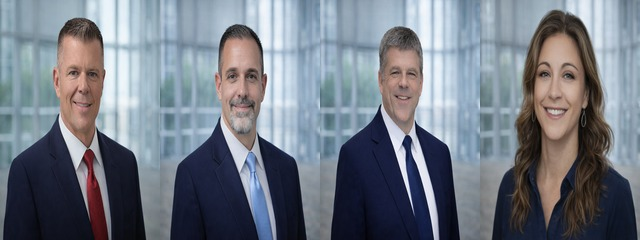
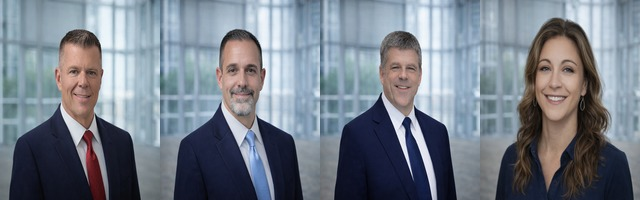
Fix news hero (remove broken contact div) + rebuild leadership nav image
- Remove blog-hero_contact from news listing page (was causing 1000px+ stretch bug)
  Contact info stays on the press release post page where it belongs
- Rebuild leadership-team-nav.jpg: Patrick, Ian, Preston, Angel — clean face crops

Changed region(s): [[0.0, 0.0, 1.0, 1.0], [0.9062, 0.84, 0.9375, 0.93]]

diff --git a/public/news.html b/public/news.html
@@ -205,7 +205,7 @@ margin: 0rem !important;
   padding-left: 0rem !important;
 }
 
-</style></div><main class="main-wrapper"><div class="navbar_wrap"><div class="navbar w-nav" data-animation="default" data-collapse="medium" data-duration="400" data-easing="ease" data-easing2="ease" role="banner"><div class="nav_component"><div class="brand_wrap"><a class="brand w-nav-brand" href="index.html"><img alt="" class="logo" height="36" loading="lazy" src="/images/empower.svg" width="36"/></a></div><div class="nav_menu"><nav class="nav_menu-wrap w-nav-menu" role="navigation"><div class="nav_menu-left"><div class="nav_dropdown w-dropdown" data-delay="0" data-hover="true" data-w-id="75ec1212-96ff-147e-dc89-72d084a5c397"><div class="dropdown_toggle w-dropdown-toggle"><div>About</div><div class="dropdown_icon w-icon-dropdown-toggle"></div></div><nav class="navigation w-dropdown-list"><div class="dropdown_component"><div class="nav-link_left"><div class="nav_title"><div class="text-size-large">About Empower</div><div class="max-width-medium is--nav"><div>Empower EIT delivers high-return, vertically integrated solutions across next-generation lithium production and advanced energy technologies—spanning pre-treatment, patented extraction and conversion with battery-grade output</div></div></div><div class="nav_card_warp"><a class="nav_card-link w-inline-block" href="about.html"><div class="nav_card-img"><img alt="" class="image is--explore" loading="lazy" sizes="100vw" src="/images/cms/empower-building.jpg"/></div><div class="nav_card-text"><div class="text-style-allcaps text-weight-medium text-size-tiny">About</div></div></a><a class="nav_card-link w-inline-block" href="leadership.html"><div class="nav_card-img"><img alt="" class="image is--explore" loading="lazy" sizes="100vw" src="/images/leadership-team-nav.jpg"/></div><div class="nav_card-text"><div class="text-style-allcaps text-weight-medium text-size-tiny">Leadership</div></div></a></div></div><div class="nav-link_right"><div class="nav-card_content"><div class="max-width-small"><div class="text-size-large">Vertically integrated lithium development</div></div><p>Empower is among the first companies to offer a true end-to-end lithium solution, integrating both concentration and refining processes within a single system.</p><div class="margin-top margin-small"><a class="button-primary-2 w-inline-block" href="projects.html"><div class="button-text"><div class="text-size-regular text-weight-medium">Projects</div><div class="button-text_hover"><div class="text-size-regular text-weight-medium">Get started</div></div></div><div class="button-primary_bg"></div></a></div></div><div class="dropdown_card-img"><img alt="" class="image" loading="lazy" sizes="100vw" src="/images/Screenshot-2026-01-21-at-2.22.54-PM.png" srcset="/images/Screenshot-2026-01-21-at-2.22.54-PM-p-500.png 500w, /images/Screenshot-2026-01-21-at-2.22.54-PM-p-800.png 800w, /images/Screenshot-2026-01-21-at-2.22.54-PM-p-1080.png 1080w, /images/Screenshot-2026-01-21-at-2.22.54-PM-p-1600.png 1600w, /images/Screenshot-2026-01-21-at-2.22.54-PM-p-2000.png 2000w, /images/Screenshot-2026-01-21-at-2.22.54-PM.png 2386w"/></div></div></div></nav></div><a class="nav_link w-inline-block" href="services.html"><div>Services</div></a><a class="nav_link w-inline-block" href="projects.html"><div>Projects</div></a><a class="nav_link w-inline-block" href="our-story.html"><div>Company Timeline</div></a><a class="nav_link w-inline-block" href="sustainability.html"><div>Sustainability</div></a><a class="nav_link w-inline-block" href="investment.html"><div>Investment</div></a><a aria-current="page" class="nav_link w-inline-block w--current" href="news.html"><div>News</div></a></div><div class="nav_menu-right"><a class="button-primary w-inline-block" href="/contact.html"><div class="button-text"><div class="text-size-regular text-weight-medium">Get in Touch</div><div class="button-text_hover"><div class="text-size-regular text-weight-medium">Get in Touch</div></div></div><div class="button-primary_bg"></div></a></div></nav><div class="nav-button w-nav-button"><div class="w-icon-nav-menu"></div></div></div></div><div class="nav_blur"></div></div></div><section class="section_blog-hero" id="hero"><div class="padding-global"><div class="w-layout-blockcontainer container-large w-container"><div class="blog-hero_list-wrap w-dyn-list"><div class="blog-hero_list w-dyn-items" role="list"><div class="blog-hero_item w-dyn-item" role="listitem"><a class="blog-hero_component w-inline-block" href="news/dme-acquires-conductive-energy-forms-empower-eit-dallas.html"><div class="blog-hero_left"><div class="blog-hero_title"><div class="heading-tagline is--white"><div class="text-style-allcaps text-size-tiny">Press Release</div></div><h1 class="text-weight-normal heading-style-h2">DME Energy Resources Acquires Conductive Energy to Form Empower EIT</h1><div class="blog-hero_subtitle"><p class="opacity-80">DME Energy Resources has acquired Conductive Energy to form Empower EIT, consolidating operations at a new 17,000 sq ft Dallas headquarters and creating a fully vertically integrated lithium company.</p></div></div><div class="blog-link"><div class="text-size-regular">Click to see full press release</div><img alt="Icon" class="blog-arrow" loading="lazy" src="/images/blog-arrow.svg"/></div><div class="blog-hero_contact" style="margin-top:1.5rem;opacity:0.85;font-size:0.875rem;"><div style="font-size:0.7rem;letter-spacing:0.08em;text-transform:uppercase;opacity:0.6;margin-bottom:0.25rem;">Media Contact</div><div>Jimena Ramirez &nbsp;·&nbsp; <a href="mailto:[email redacted]" style="color:inherit;">[email redacted]</a> &nbsp;·&nbsp; 972.955.5014</div></div></div><div class="blog-hero_right"><img alt="Empower EIT team at Dallas facility" class="image" loading="lazy" src="/images/cms/empower-building.jpg" alt="Empower EIT headquarters Dallas"/><div class="square-wrap"><div class="square is--white"></div><div class="square is--white"></div><div class="square is--white"></div></div></div></a></div></div></div></div></div></section><section class="section_blog"><div class="padding-global"><div class="w-layout-blockcontainer container-large w-container"><div class="blog_component"><div class="blog_list-wrap w-dyn-list"><div class="blog_list w-dyn-items" role="list"><div class="blog_item w-dyn-item" role="listitem"><div class="blog_card"><a class="blog_card-image w-inline-block" href="news/dme-acquires-conductive-energy-forms-empower-eit-dallas.html"><img alt="Empower EIT headquarters Dallas" class="image" loading="lazy" src="/images/cms/empower-building.jpg"/><div class="square-wrap"><div class="square is--white"></div></div></a><a class="blog_card-info w-inline-block" href="news/dme-acquires-conductive-energy-forms-empower-eit-dallas.html"><h3 class="heading-style-h4 text-weight-normal">DME Energy Resources Acquires Conductive Energy to Form Empower EIT</h3><div class="blog_subtitle"><p>DME Energy Resources has acquired Conductive Energy to form Empower EIT, consolidating operations at a new 17,000 sq ft Dallas headquarters.</p></div></a><div class="blog_card-bottom"><div class="w-dyn-list"><div class="w-dyn-items" role="list"><div class="w-dyn-item" role="listitem"><div class="text-style-allcaps text-size-small">Press Release</div></div></div></div><div class="text-size-small opacity-60">• 5 MAY 2026</div></div></div></div><div class="blog_item w-dyn-item" role="listitem"><div class="blog_card"><a class="blog_card-image w-inline-block" href="news/cleantech-lithium-empower-eit-battery-grade-lithium-carbonate-dallas.html"><img alt="Battery-grade lithium carbonate at Empower EIT Dallas facility" class="image" loading="lazy" src="/images/cms/april-battery-grade-1.jpeg"/><div class="square-wrap"><div class="square is--white"></div></div></a><a class="blog_card-info w-inline-block" href="news/cleantech-lithium-empower-eit-battery-grade-lithium-carbonate-dallas.html"><h3 class="heading-style-h4 text-weight-normal">CleanTech Lithium &amp; Empower EIT: Battery-Grade Lithium Carbonate Now in Production</h3><div class="blog_subtitle"><p>Empower EIT's Dallas facility processes battery grade lithium carbonate from CleanTech Lithium's Chile salar.</p></div></a><div class="blog_card-bottom"><div class="w-dyn-list"><div class="w-dyn-items" role="list"><div class="w-dyn-item" role="listitem"><div class="text-style-allcaps text-size-small">News</div></div></div></div><div class="text-size-small opacity-60">• 16 APR 2026</div></div></div></div></div></div></div><div aria-label="List" class="w-pagination-wrapper pagination" role="navigation"></div></div></div></section></main></div><section class="section_cta"><div class="cta_component" data-tab-autoplay="true" data-tab-duration="5000" data-tab-wrapper=""><div class="cta_content"><div class="cta_heading"><img alt="" class="image-5" loading="lazy" src="/images/empower-white-with-icon-05.svg"/><h2 class="heading-style-h1 text-weight-normal">Building the next generation of lithium infrastructure.</h2><p class="paragraph-2"><br/>Empower works closely with resource owners, investors, and local stakeholders to align incentives, reduce execution risk, and support collaborative development from early testing through commercialization.</p><div class="buttons-wrapper left"><a class="button-primary w-inline-block" href="contact.html"><div class="button-text"><div class="text-size-regular text-weight-medium">Partner With Empower</div><div class="button-text_hover"><div class="text-size-regular text-weight-medium">Partner With Empower</div></div></div><div class="button-primary_bg"></div></a><a class="button-secondary w-inline-block" href="projects.html"><div class="button-text"><div class="text-size-regular text-weight-medium">Projects</div></div><div class="button-secondary_bg"></div></a></div></div></div><div class="cta_background"><div class="image-bottom-overlay"></div><img alt="" class="image" loading="lazy" sizes="100vw" src="/images/Aeriel34.jpg" srcset="/images/Aeriel34-p-500.jpg 500w, /images/Aeriel34-p-800.jpg 800w, /images/Aeriel34-p-1080.jpg 1080w, /images/Aeriel34-p-1600.jpg 1600w, /images/Aeriel34-p-2000.jpg 2000w, /images/Aeriel34-p-2600.jpg 2600w, /images/Aeriel34-p-3200.jpg 3200w, /images/Aeriel34.jpg 3968w"/></div></div></section><footer class="section_footer"><div class="padding-global"><div class="w-layout-blockcontainer container-huge w-container"><div class="footer_component"><div class="footer_top"><div class="footer_left"><a class="footer_logo w-inline-block" href="news.html#"><img alt="" class="footer_logo-img" loading="lazy" src="/images/empower-white-01.svg" width="Auto"/></a><div class="footer_paragraph"><p>Vertically Integrated Lithium — Global Deployment</p></div><div class="newsletter"><form action="https://api.web3forms.com/submit" class="newsletter-form" data-name="Newsletter" data-wf-element-id="fe51362f-eaec-bdda-d9ff-4b744132cf41" data-wf-page-id="69680db6fff63daf84873a46" id="wf-form-Newsletter" method="POST" name="wf-form-Newsletter"><input name="access_key" type="hidden" value="69d95dda-8cdf-4698-b68a-cc6d98d7a98e"/><input name="subject" type="hidden" value="New Newsletter Signup — Empower IT"/><input class="hidden" name="botcheck" style="display:none" type="hidden"/><div class="newsletter-wrap"><input class="newsletter-field w-input" data-name="Name" id="name" maxlength="256" name="name" placeholder="Enter your email" type="email"/><div class="newsletter-button_wrap"><input class="newsletter-button w-button" data-wait="" type="submit" value=""/><div class="newsletter-button_arrow w-embed"><svg fill="none" height="10" viewbox="0 0 11 10" width="11" xmlns="http://www.w3.org/2000/svg">
+</style></div><main class="main-wrapper"><div class="navbar_wrap"><div class="navbar w-nav" data-animation="default" data-collapse="medium" data-duration="400" data-easing="ease" data-easing2="ease" role="banner"><div class="nav_component"><div class="brand_wrap"><a class="brand w-nav-brand" href="index.html"><img alt="" class="logo" height="36" loading="lazy" src="/images/empower.svg" width="36"/></a></div><div class="nav_menu"><nav class="nav_menu-wrap w-nav-menu" role="navigation"><div class="nav_menu-left"><div class="nav_dropdown w-dropdown" data-delay="0" data-hover="true" data-w-id="75ec1212-96ff-147e-dc89-72d084a5c397"><div class="dropdown_toggle w-dropdown-toggle"><div>About</div><div class="dropdown_icon w-icon-dropdown-toggle"></div></div><nav class="navigation w-dropdown-list"><div class="dropdown_component"><div class="nav-link_left"><div class="nav_title"><div class="text-size-large">About Empower</div><div class="max-width-medium is--nav"><div>Empower EIT delivers high-return, vertically integrated solutions across next-generation lithium production and advanced energy technologies—spanning pre-treatment, patented extraction and conversion with battery-grade output</div></div></div><div class="nav_card_warp"><a class="nav_card-link w-inline-block" href="about.html"><div class="nav_card-img"><img alt="" class="image is--explore" loading="lazy" sizes="100vw" src="/images/cms/empower-building.jpg"/></div><div class="nav_card-text"><div class="text-style-allcaps text-weight-medium text-size-tiny">About</div></div></a><a class="nav_card-link w-inline-block" href="leadership.html"><div class="nav_card-img"><img alt="" class="image is--explore" loading="lazy" sizes="100vw" src="/images/leadership-team-nav.jpg"/></div><div class="nav_card-text"><div class="text-style-allcaps text-weight-medium text-size-tiny">Leadership</div></div></a></div></div><div class="nav-link_right"><div class="nav-card_content"><div class="max-width-small"><div class="text-size-large">Vertically integrated lithium development</div></div><p>Empower is among the first companies to offer a true end-to-end lithium solution, integrating both concentration and refining processes within a single system.</p><div class="margin-top margin-small"><a class="button-primary-2 w-inline-block" href="projects.html"><div class="button-text"><div class="text-size-regular text-weight-medium">Projects</div><div class="button-text_hover"><div class="text-size-regular text-weight-medium">Get started</div></div></div><div class="button-primary_bg"></div></a></div></div><div class="dropdown_card-img"><img alt="" class="image" loading="lazy" sizes="100vw" src="/images/Screenshot-2026-01-21-at-2.22.54-PM.png" srcset="/images/Screenshot-2026-01-21-at-2.22.54-PM-p-500.png 500w, /images/Screenshot-2026-01-21-at-2.22.54-PM-p-800.png 800w, /images/Screenshot-2026-01-21-at-2.22.54-PM-p-1080.png 1080w, /images/Screenshot-2026-01-21-at-2.22.54-PM-p-1600.png 1600w, /images/Screenshot-2026-01-21-at-2.22.54-PM-p-2000.png 2000w, /images/Screenshot-2026-01-21-at-2.22.54-PM.png 2386w"/></div></div></div></nav></div><a class="nav_link w-inline-block" href="services.html"><div>Services</div></a><a class="nav_link w-inline-block" href="projects.html"><div>Projects</div></a><a class="nav_link w-inline-block" href="our-story.html"><div>Company Timeline</div></a><a class="nav_link w-inline-block" href="sustainability.html"><div>Sustainability</div></a><a class="nav_link w-inline-block" href="investment.html"><div>Investment</div></a><a aria-current="page" class="nav_link w-inline-block w--current" href="news.html"><div>News</div></a></div><div class="nav_menu-right"><a class="button-primary w-inline-block" href="/contact.html"><div class="button-text"><div class="text-size-regular text-weight-medium">Get in Touch</div><div class="button-text_hover"><div class="text-size-regular text-weight-medium">Get in Touch</div></div></div><div class="button-primary_bg"></div></a></div></nav><div class="nav-button w-nav-button"><div class="w-icon-nav-menu"></div></div></div></div><div class="nav_blur"></div></div></div><section class="section_blog-hero" id="hero"><div class="padding-global"><div class="w-layout-blockcontainer container-large w-container"><div class="blog-hero_list-wrap w-dyn-list"><div class="blog-hero_list w-dyn-items" role="list"><div class="blog-hero_item w-dyn-item" role="listitem"><a class="blog-hero_component w-inline-block" href="news/dme-acquires-conductive-energy-forms-empower-eit-dallas.html"><div class="blog-hero_left"><div class="blog-hero_title"><div class="heading-tagline is--white"><div class="text-style-allcaps text-size-tiny">Press Release</div></div><h1 class="text-weight-normal heading-style-h2">DME Energy Resources Acquires Conductive Energy to Form Empower EIT</h1><div class="blog-hero_subtitle"><p class="opacity-80">DME Energy Resources has acquired Conductive Energy to form Empower EIT, consolidating operations at a new 17,000 sq ft Dallas headquarters and creating a fully vertically integrated lithium company.</p></div></div><div class="blog-link"><div class="text-size-regular">Click to see full press release</div><img alt="Icon" class="blog-arrow" loading="lazy" src="/images/blog-arrow.svg"/></div></div><div class="blog-hero_right"><img alt="Empower EIT team at Dallas facility" class="image" loading="lazy" src="/images/cms/empower-building.jpg" alt="Empower EIT headquarters Dallas"/><div class="square-wrap"><div class="square is--white"></div><div class="square is--white"></div><div class="square is--white"></div></div></div></a></div></div></div></div></div></section><section class="section_blog"><div class="padding-global"><div class="w-layout-blockcontainer container-large w-container"><div class="blog_component"><div class="blog_list-wrap w-dyn-list"><div class="blog_list w-dyn-items" role="list"><div class="blog_item w-dyn-item" role="listitem"><div class="blog_card"><a class="blog_card-image w-inline-block" href="news/dme-acquires-conductive-energy-forms-empower-eit-dallas.html"><img alt="Empower EIT headquarters Dallas" class="image" loading="lazy" src="/images/cms/empower-building.jpg"/><div class="square-wrap"><div class="square is--white"></div></div></a><a class="blog_card-info w-inline-block" href="news/dme-acquires-conductive-energy-forms-empower-eit-dallas.html"><h3 class="heading-style-h4 text-weight-normal">DME Energy Resources Acquires Conductive Energy to Form Empower EIT</h3><div class="blog_subtitle"><p>DME Energy Resources has acquired Conductive Energy to form Empower EIT, consolidating operations at a new 17,000 sq ft Dallas headquarters.</p></div></a><div class="blog_card-bottom"><div class="w-dyn-list"><div class="w-dyn-items" role="list"><div class="w-dyn-item" role="listitem"><div class="text-style-allcaps text-size-small">Press Release</div></div></div></div><div class="text-size-small opacity-60">• 5 MAY 2026</div></div></div></div><div class="blog_item w-dyn-item" role="listitem"><div class="blog_card"><a class="blog_card-image w-inline-block" href="news/cleantech-lithium-empower-eit-battery-grade-lithium-carbonate-dallas.html"><img alt="Battery-grade lithium carbonate at Empower EIT Dallas facility" class="image" loading="lazy" src="/images/cms/april-battery-grade-1.jpeg"/><div class="square-wrap"><div class="square is--white"></div></div></a><a class="blog_card-info w-inline-block" href="news/cleantech-lithium-empower-eit-battery-grade-lithium-carbonate-dallas.html"><h3 class="heading-style-h4 text-weight-normal">CleanTech Lithium &amp; Empower EIT: Battery-Grade Lithium Carbonate Now in Production</h3><div class="blog_subtitle"><p>Empower EIT's Dallas facility processes battery grade lithium carbonate from CleanTech Lithium's Chile salar.</p></div></a><div class="blog_card-bottom"><div class="w-dyn-list"><div class="w-dyn-items" role="list"><div class="w-dyn-item" role="listitem"><div class="text-style-allcaps text-size-small">News</div></div></div></div><div class="text-size-small opacity-60">• 16 APR 2026</div></div></div></div></div></div></div><div aria-label="List" class="w-pagination-wrapper pagination" role="navigation"></div></div></div></section></main></div><section class="section_cta"><div class="cta_component" data-tab-autoplay="true" data-tab-duration="5000" data-tab-wrapper=""><div class="cta_content"><div class="cta_heading"><img alt="" class="image-5" loading="lazy" src="/images/empower-white-with-icon-05.svg"/><h2 class="heading-style-h1 text-weight-normal">Building the next generation of lithium infrastructure.</h2><p class="paragraph-2"><br/>Empower works closely with resource owners, investors, and local stakeholders to align incentives, reduce execution risk, and support collaborative development from early testing through commercialization.</p><div class="buttons-wrapper left"><a class="button-primary w-inline-block" href="contact.html"><div class="button-text"><div class="text-size-regular text-weight-medium">Partner With Empower</div><div class="button-text_hover"><div class="text-size-regular text-weight-medium">Partner With Empower</div></div></div><div class="button-primary_bg"></div></a><a class="button-secondary w-inline-block" href="projects.html"><div class="button-text"><div class="text-size-regular text-weight-medium">Projects</div></div><div class="button-secondary_bg"></div></a></div></div></div><div class="cta_background"><div class="image-bottom-overlay"></div><img alt="" class="image" loading="lazy" sizes="100vw" src="/images/Aeriel34.jpg" srcset="/images/Aeriel34-p-500.jpg 500w, /images/Aeriel34-p-800.jpg 800w, /images/Aeriel34-p-1080.jpg 1080w, /images/Aeriel34-p-1600.jpg 1600w, /images/Aeriel34-p-2000.jpg 2000w, /images/Aeriel34-p-2600.jpg 2600w, /images/Aeriel34-p-3200.jpg 3200w, /images/Aeriel34.jpg 3968w"/></div></div></section><footer class="section_footer"><div class="padding-global"><div class="w-layout-blockcontainer container-huge w-container"><div class="footer_component"><div class="footer_top"><div class="footer_left"><a class="footer_logo w-inline-block" href="news.html#"><img alt="" class="footer_logo-img" loading="lazy" src="/images/empower-white-01.svg" width="Auto"/></a><div class="footer_paragraph"><p>Vertically Integrated Lithium — Global Deployment</p></div><div class="newsletter"><form action="https://api.web3forms.com/submit" class="newsletter-form" data-name="Newsletter" data-wf-element-id="fe51362f-eaec-bdda-d9ff-4b744132cf41" data-wf-page-id="69680db6fff63daf84873a46" id="wf-form-Newsletter" method="POST" name="wf-form-Newsletter"><input name="access_key" type="hidden" value="69d95dda-8cdf-4698-b68a-cc6d98d7a98e"/><input name="subject" type="hidden" value="New Newsletter Signup — Empower IT"/><input class="hidden" name="botcheck" style="display:none" type="hidden"/><div class="newsletter-wrap"><input class="newsletter-field w-input" data-name="Name" id="name" maxlength="256" name="name" placeholder="Enter your email" type="email"/><div class="newsletter-button_wrap"><input class="newsletter-button w-button" data-wait="" type="submit" value=""/><div class="newsletter-button_arrow w-embed"><svg fill="none" height="10" viewbox="0 0 11 10" width="11" xmlns="http://www.w3.org/2000/svg">
 <path d="M9.12109 5L4.41406 9.70703L3 8.29297L6.29297 5L3 1.70703L4.41406 0.292969L9.12109 5Z" fill="currentColor"></path>
 </svg></div></div></div><div class="text-style-allcaps text-size-tiny opacity-60 text-weight-light">Your information is never disclosed to third parties.</div></form><div class="success-message w-form-done"><div>Thank you! Your submission has been received!</div></div><div class="error-message w-form-fail"><div>Oops! Something went wrong while submitting the form.</div></div></div><div class="social"><a class="social_link w-inline-block" href="news.html#" target="_blank"><div class="social_icon w-embed"><svg fill="none" height="16" viewbox="0 0 12 10" width="16" xmlns="http://www.w3.org/2000/svg">
 <path d="M11.2052 1.9831C10.7862 2.16933 10.3439 2.28573 9.87827 2.35557C10.3439 2.07622 10.7163 1.63392 10.8793 1.0985C10.437 1.35457 9.94811 1.5408 9.41269 1.6572C8.99367 1.2149 8.38842 0.935547 7.7366 0.935547C6.47954 0.935547 5.45526 1.95982 5.45526 3.21689C5.45526 3.40312 5.47854 3.56608 5.5251 3.72903C3.6395 3.63591 1.94013 2.72803 0.799457 1.33129C0.613225 1.68048 0.49683 2.05294 0.49683 2.47196C0.49683 3.26345 0.892573 3.96182 1.52111 4.38084C1.14864 4.35756 0.799457 4.26445 0.473551 4.10149V4.12477C0.473551 5.24216 1.26504 6.17333 2.31259 6.38284C2.12636 6.42939 1.91685 6.45267 1.70734 6.45267C1.56766 6.45267 1.40471 6.42939 1.26504 6.40612C1.56766 7.314 2.40571 7.98909 3.40671 7.98909C2.61522 8.59434 1.6375 8.96681 0.566667 8.96681C0.380435 8.96681 0.194203 8.96681 0.03125 8.94353C1.05553 9.59534 2.24276 9.96781 3.54638 9.96781C7.75988 9.96781 10.0645 6.47595 10.0645 3.44968C10.0645 3.35656 10.0645 3.24017 10.0645 3.14705C10.5068 2.84443 10.9025 2.44868 11.2052 1.9831Z" fill="currentColor"></path>